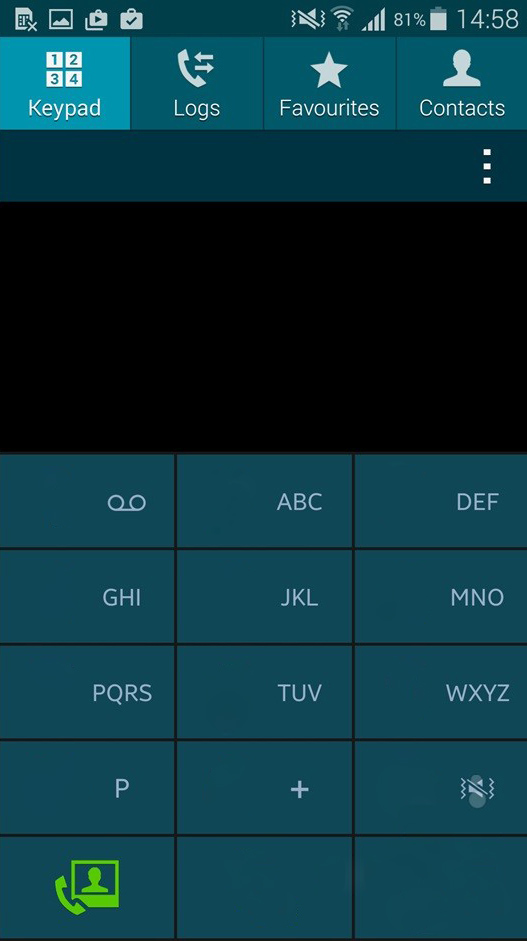
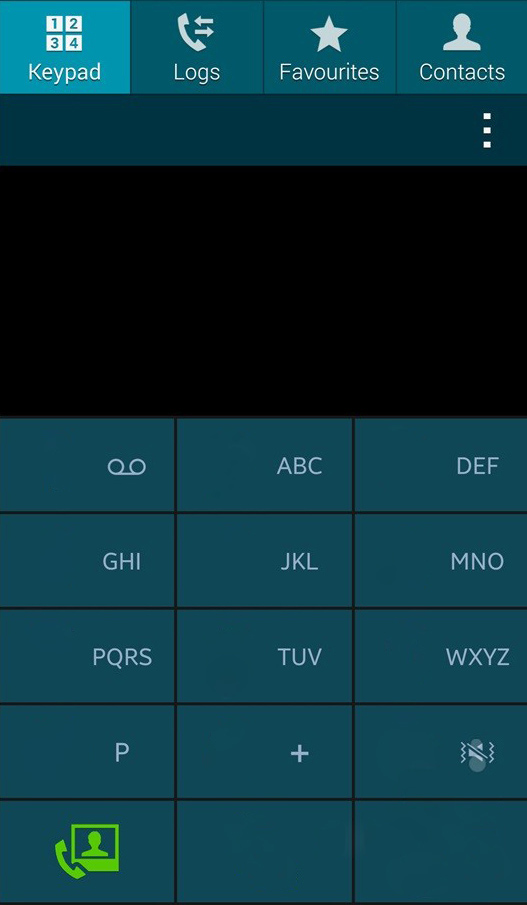
./ path instead of ../ on img and recropping of dialpadClear.jpg

diff --git a/www/views/module2.html b/www/views/module2.html
@@ -9,7 +9,7 @@
       <p class="dialer-display">{{dialedNumber}}</p>
 
       <div class="dailer-wrap">
-        <img src="../img/dialpadClear.jpg" style="width: 100%;" alt="[background image] Samsung galaxy S5 dialpad">
+        <img src="./img/dialpadClear.jpg" style="width: 100%;" alt="[background image] Samsung galaxy S5 dialpad">
         <div class="dialer">
           <div class="button-row">
             <div class="button-wrap">
@@ -50,7 +50,7 @@
           <div class="button-row">
             <div class="button-wrap">
               <button type="button" class="digit third" data-value="*" ng-click="dialPadKeyPressed('*')">
-                <img src="../img/dialpad_star_button.png" class="dialpad-star" width="45" alt="star button">
+                <img src="./img/dialpad_star_button.png" class="dialpad-star" width="45" alt="star button">
               </button>
             </div>
             <div class="button-wrap">
@@ -64,12 +64,12 @@
           <div class="button-row">
             <div class="button-wrap">
               <button type="button" class="digit third" data-value="contacts" ng-click="dialPadKeyPressed('contacts')">
-                <img src="../img/dailpad_contacts_button.png" width="50" class="dialpad-contacts" alt="contacts">
+                <img src="./img/dailpad_contacts_button.png" width="50" class="dialpad-contacts" alt="contacts">
               </button>
             </div>
             <div class="button-wrap">
               <button id="call" type="button" class="digit third" data-value="call" ng-click="dialPadKeyPressed('call')">
-                <img src="../img/dailpad_call_button.png" class="dialpad-call" width="48" alt="call">
+                <img src="./img/dailpad_call_button.png" class="dialpad-call" width="48" alt="call">
               </button>
             </div>
             <div class="button-wrap">
